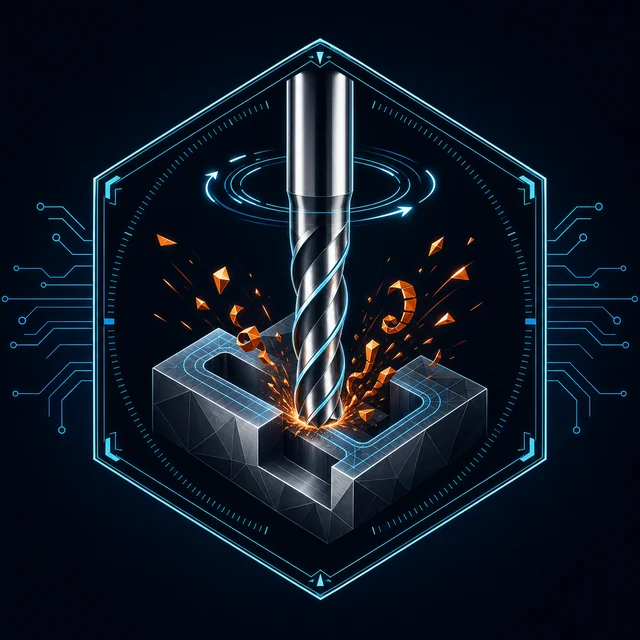
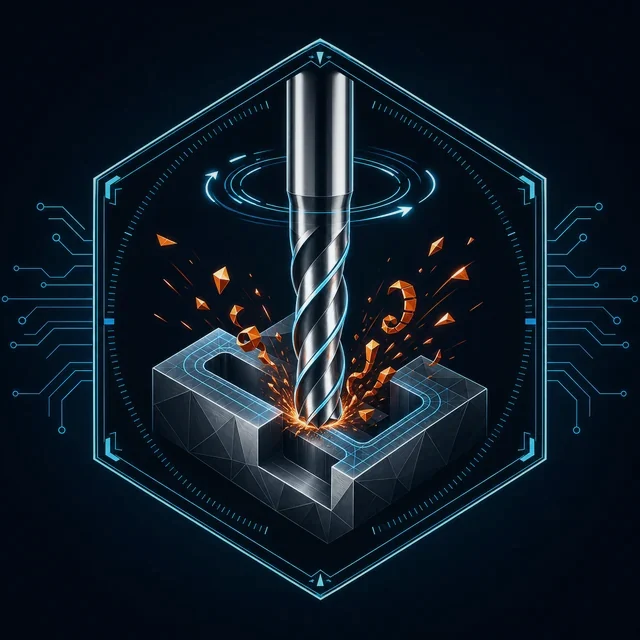
fix: colore, sfondo e luminosita' uniformati sulle quattro immagini dei reparti
Stesso sfondo, tonalita' dei tratti azzurri avvicinata, luminosita' e vignettatura comuni. Le differenze di struttura (orientamento dell'esagono, spessore delle linee) restano: si risolvono solo rigenerando le immagini con lo stesso prompt. Versione file v=36.

diff --git a/index.html b/index.html
@@ -30,8 +30,8 @@
 <link rel="preload" as="fetch" href="img/hero-pezzo.bin" crossorigin>
 <link rel="modulepreload" href="js/vendor/three.module.min.js">
 <link rel="modulepreload" href="js/vendor/RoomEnvironment.js">
-<link rel="modulepreload" href="js/hero3d.js?v=35">
-<link rel="stylesheet" href="css/style.css?v=35">
+<link rel="modulepreload" href="js/hero3d.js?v=36">
+<link rel="stylesheet" href="css/style.css?v=36">
 </head>
 <body>
 
@@ -153,12 +153,12 @@
   </div>
 </footer>
 
-<script src="js/schedario.js?v=35"></script>
-<script src="js/prezzi.js?v=35"></script>
-<script src="js/testi.js?v=35"></script>
-<script src="js/i18n.js?v=35"></script>
-<script src="js/file.js?v=35"></script>
-<script src="js/app.js?v=35"></script>
-<script type="module" src="js/hero3d.js?v=35"></script>
+<script src="js/schedario.js?v=36"></script>
+<script src="js/prezzi.js?v=36"></script>
+<script src="js/testi.js?v=36"></script>
+<script src="js/i18n.js?v=36"></script>
+<script src="js/file.js?v=36"></script>
+<script src="js/app.js?v=36"></script>
+<script type="module" src="js/hero3d.js?v=36"></script>
 </body>
 </html>
